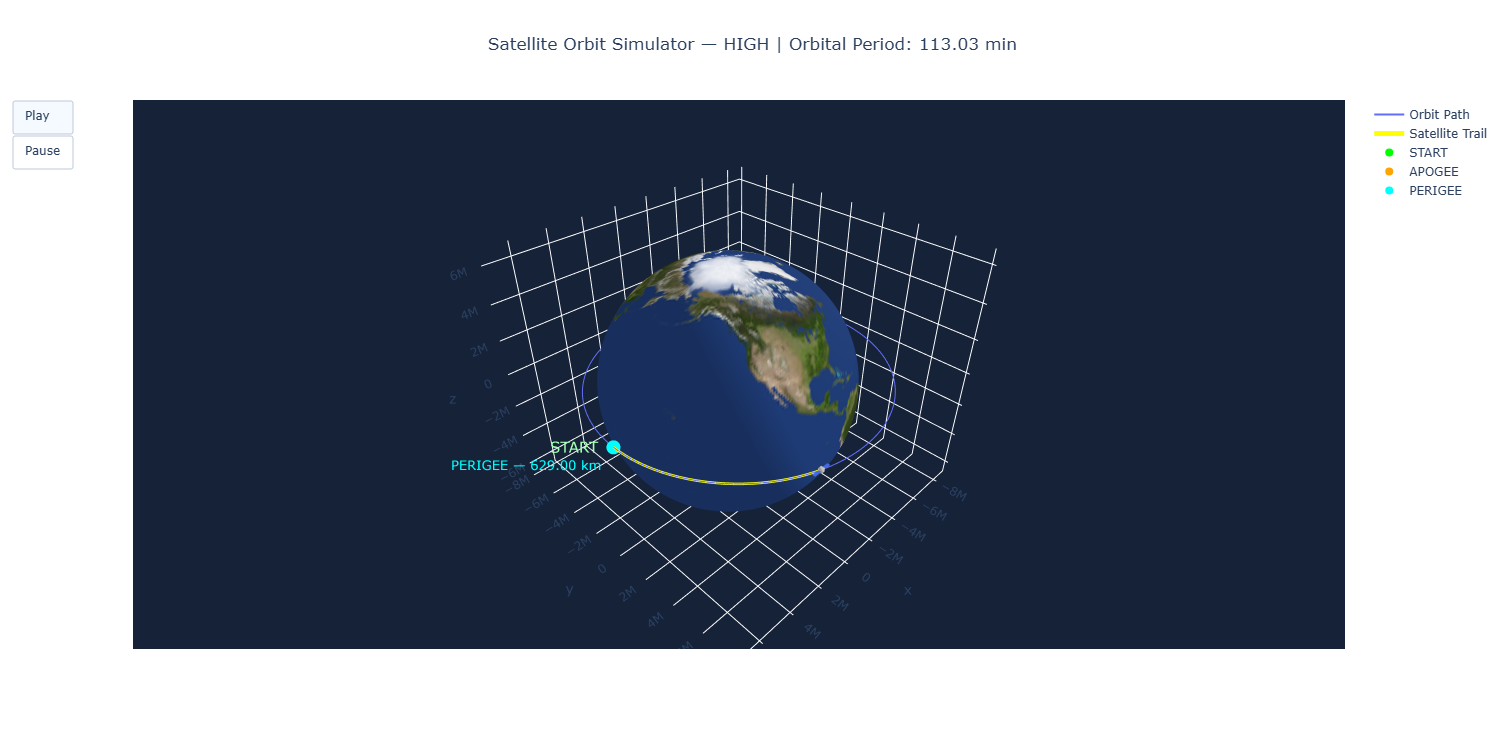
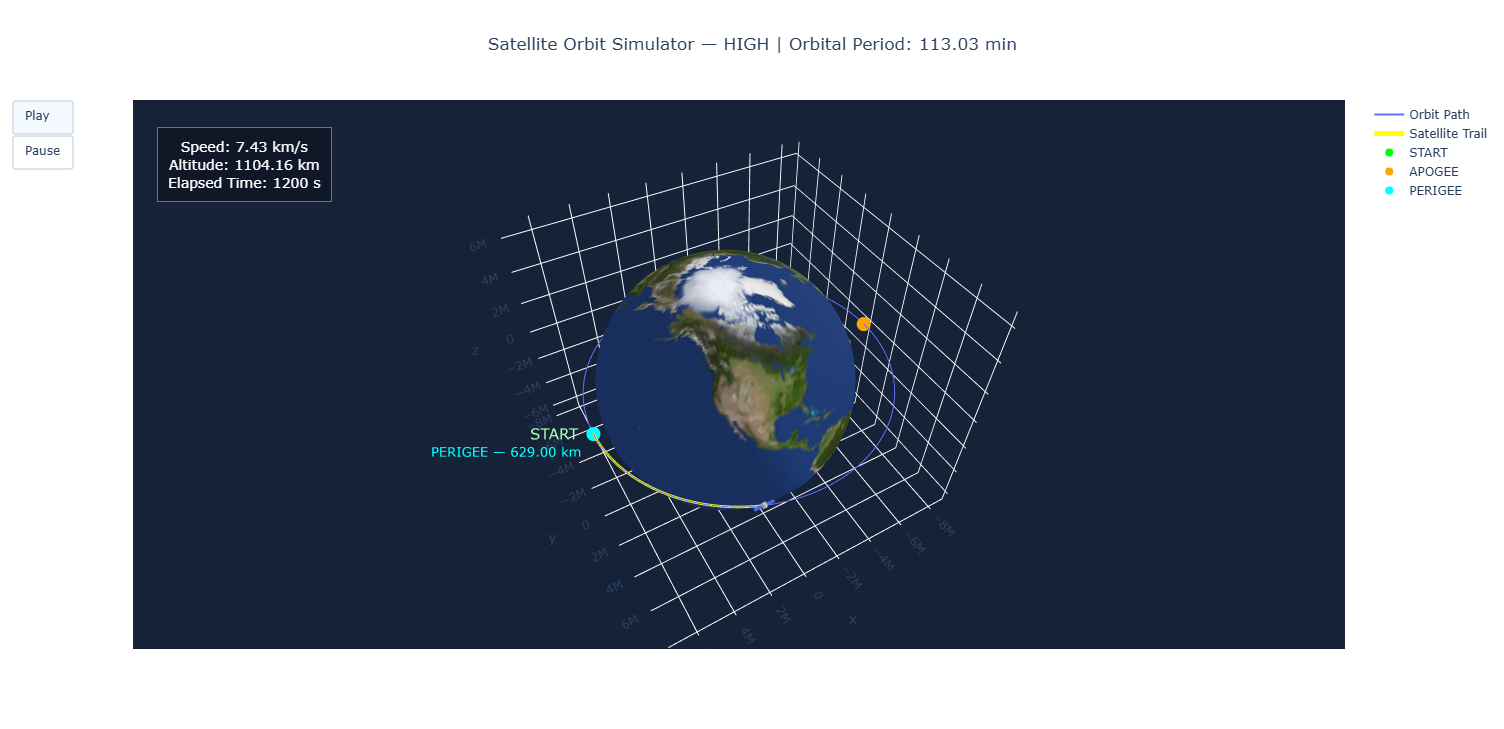
Release V1.2 - Live Telemetry

Changed region(s): [[0.2812, 0.2112, 0.6562, 0.8752], [0.0938, 0.1811, 0.2188, 0.2716]]

diff --git a/visualization.py b/visualization.py
@@ -11,7 +11,7 @@ def plot_energy_error(times,relative_energy_error):
     return (energy_fig)
 
 
-def plot_orbit(positions_array,earth_radius, perigee_position,apogee_position,perigee_altitude,apogee_altitude,orbit_type,orbital_period):
+def plot_orbit(positions_array,earth_radius, perigee_position,apogee_position,perigee_altitude,apogee_altitude,orbit_type,orbital_period, speeds):
     x_positions=positions_array[:,0]
     y_positions=positions_array[:,1]
     z_positions=positions_array[:,2]
@@ -30,6 +30,7 @@ def plot_orbit(positions_array,earth_radius, perigee_position,apogee_position,pe
 
     # Sample every 50th position to create animation frames
     animation_positions=positions_array[::50]
+    animation_speeds=speeds[::50]
 
     satellite_position = positions_array[0]
 
@@ -38,8 +39,40 @@ def plot_orbit(positions_array,earth_radius, perigee_position,apogee_position,pe
 
     # Generate the satellite body and solar panels for each frame
     for i, position in enumerate(animation_positions):
+        # Calculate the satellite's speed, altitude, and elapsed simulation time for each frame
+        current_speed=animation_speeds[i]/1000
+        current_altitude=(np.linalg.norm(position)-earth_radius)/1000
+        current_time=i*50
+
+        # Format the live satellite telemetry
+        telemetry_text = (
+            f"Speed: {current_speed:.2f} km/s"
+            f"<br>Altitude: {current_altitude:.2f} km"
+            f"<br>Elapsed Time: {current_time:.0f} s"
+        )
+
+        # Create a styled telemetry panel that displays live data for the current animation frame
+        telemetry_annotation= go.layout.Annotation(text=telemetry_text,
+                                                   x=0.02,
+                                                   y=0.95,
+                                                   xref="paper",
+                                                   yref = "paper",
+                                                   showarrow=False,
+                                                   xanchor="left",
+                                                   yanchor="top",
+                                                   font=dict(color="white", size=14),
+                                                   bgcolor="#101827",
+                                                   bordercolor="#64748B",
+                                                   borderpad=10,
+
+        )
         satellite_body, right_panel, left_panel=create_satellite(position,200000)
+
+        # Store all sampled satellite positions up to the current animation frame
         trail_positions=animation_positions[:i+1]
+
+
+        # Create a 3D line showing the satellite's traveled path
         trail_frame=go.Scatter3d(
             x=trail_positions[:, 0],
             y=trail_positions[:, 1],
@@ -49,10 +82,14 @@ def plot_orbit(positions_array,earth_radius, perigee_position,apogee_position,pe
 
         )
 
-        # Update only the three satellite traces in each frame
+        # Update the satellite, its trail, and telemetry in each animation frame
         frame = go.Frame(
             data=[satellite_body, right_panel, left_panel, trail_frame],
-            traces=[1, 2, 3, 4]
+            traces=[1, 2, 3, 4],
+            layout=go.Layout(
+            annotations = [telemetry_annotation],
+
+        )
         )
         frames.append(frame)
 
@@ -61,6 +98,8 @@ def plot_orbit(positions_array,earth_radius, perigee_position,apogee_position,pe
     fig.add_trace(satellite_body)
     fig.add_trace(right_panel)
     fig.add_trace(left_panel)
+
+    # Initialize an empty satellite trail to be updated during animation
     trail=go.Scatter3d(
         x=[],
         y=[],
@@ -180,6 +219,8 @@ def plot_orbit(positions_array,earth_radius, perigee_position,apogee_position,pe
                    zaxis=dict(showbackground=False),
                    )
     )
+    # Display the initial telemetry before the animation starts
+    fig.update_layout(annotations=frames[0].layout.annotations)
 
     # Attach the animation frames to the 3D figure
     fig.frames=frames
@@ -229,7 +270,6 @@ def create_satellite(position,size):
                    i=[0, 0,4 , 4, 0, 0, 3, 3, 0, 0, 1, 1],
                    j=[1, 2, 6, 7, 4, 5, 2, 6, 3, 7, 5 ,6],
                    k=[2, 3, 5 ,6, 5, 1, 6, 7, 7, 4, 6 , 2],
-
     )
     right_panel_x=[x + half_size,x + half_size,x + half_size + panel_length,x + half_size + panel_length]
     panel_y=[y - panel_width / 2,y + panel_width / 2,y + panel_width / 2 ,y - panel_width / 2]

diff --git a/main.py b/main.py
@@ -121,7 +121,7 @@ if orbit_type != "circular":
 else:
     print(f"Orbital Altitude: {perigee_altitude:.2f} km")
 
-fig=plot_orbit(positions_array,EARTH_RADIUS,perigee_position,apogee_position, perigee_altitude, apogee_altitude,orbit_type, orbital_period)
+fig=plot_orbit(positions_array,EARTH_RADIUS,perigee_position,apogee_position, perigee_altitude, apogee_altitude,orbit_type, orbital_period , speeds)
 
 # Display the 3D satellite orbit visualization
 fig.show()
